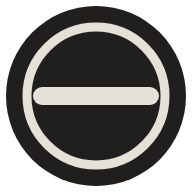
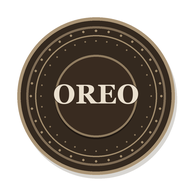
Refresh hosted Oreo with a minimal black UI

diff --git a/public/index.html b/public/index.html
@@ -3,12 +3,13 @@
   <head>
     <meta charset="utf-8">
     <meta name="viewport" content="width=device-width, initial-scale=1, viewport-fit=cover">
-    <meta name="theme-color" content="#171717">
+    <meta name="theme-color" content="#000000">
     <meta name="apple-mobile-web-app-capable" content="yes">
     <meta name="apple-mobile-web-app-title" content="Oreo">
     <meta name="apple-mobile-web-app-status-bar-style" content="black">
     <title>Oreo</title>
     <link rel="manifest" href="/manifest.webmanifest">
+    <link rel="icon" href="/oreo.svg" type="image/svg+xml">
     <link rel="apple-touch-icon" href="/apple-touch-icon.png">
     <style>
       :root{color-scheme:dark;--bg:#171717;--side:#111;--panel:#222;--line:#303030;--ink:#eee;--muted:#999;--accent:#e5e1d8;font:15px/1.55 -apple-system,BlinkMacSystemFont,"Segoe UI",sans-serif;background:var(--bg);color:var(--ink)}
@@ -22,11 +23,12 @@
       #settings{width:min(520px,calc(100% - 28px));max-height:85dvh;overflow:auto;background:#1d1d1d;color:var(--ink);border:1px solid #444;border-radius:16px;padding:24px}#settings::backdrop{background:#0009}.settings-head{display:flex;justify-content:space-between;align-items:center;margin-bottom:18px}.settings-head h2{margin:0;font-size:22px;font-weight:550}#settings label:not(.check){display:block;margin:18px 0 7px;font-size:13px}#settings textarea,#settings select{width:100%;border:1px solid #444;background:#252525;color:var(--ink);border-radius:8px;padding:10px;font:inherit}#settings textarea{resize:vertical;min-height:100px}#settings small{display:block;color:var(--muted);font-size:12px;line-height:1.5;margin-top:6px}.settings-grid{display:grid;grid-template-columns:1fr 1fr;gap:14px}#settings input[type=range]{width:100%;accent-color:var(--accent)}#settings .check{display:flex;align-items:center;gap:9px;margin-top:16px;font-size:13px}#settings input[type=checkbox]{accent-color:var(--accent);width:16px;height:16px}#settings output{float:right;color:var(--muted)}.settings-actions{display:flex;gap:6px;align-items:center;justify-content:flex-end;margin-top:24px}#settings-note{font-size:11px;color:var(--muted);margin:16px 0 0}#open-settings{color:#ddd;border:1px solid var(--line);font-size:12px;padding:6px 10px}
       .ios-install{position:fixed;left:16px;right:16px;bottom:calc(16px + env(safe-area-inset-bottom));z-index:10;max-width:420px;margin:0 auto;display:flex;gap:12px;align-items:center;background:#222;border:1px solid #414141;border-radius:14px;padding:14px 16px}.ios-install p{margin:0;flex:1;font-size:14px}
     </style>
+    <link rel="stylesheet" href="/theme.css">
   </head>
   <body class="signed-out"><button class="mobile-backdrop" aria-label="Close chats"></button>
-    <aside><div class="brand">oreo</div><button id="new-chat" class="new">＋ New chat</button><div class="side-label">Your chats</div><nav id="history" class="history"></nav><div class="side-foot"><span id="who"></span><button id="install" class="quiet hidden" title="Install Oreo as an app">Install</button><button id="refresh" class="quiet" title="Refresh chats">↻</button><button id="sign-out" class="quiet" title="Sign out">Sign out</button></div></aside>
+    <aside><div class="brand"><img class="app-mark" src="/oreo.svg" alt=""><span>Oreo</span></div><button id="new-chat" class="new"><svg viewBox="0 0 20 20" aria-hidden="true"><path d="M10 4v12M4 10h12"/></svg><span>New chat</span></button><div class="side-label">Your chats</div><nav id="history" class="history"></nav><div class="side-foot"><span id="who"></span><button id="install" class="quiet hidden" title="Install Oreo as an app">Install</button><button id="refresh" class="quiet" title="Refresh chats" aria-label="Refresh chats"><svg viewBox="0 0 20 20" aria-hidden="true"><path d="M16 9a6 6 0 1 0 1 4M16 4v5h-5"/></svg></button><button id="sign-out" class="quiet" title="Sign out">Sign out</button></div></aside>
     <div id="ios-install" class="ios-install hidden" role="dialog" aria-label="Install Oreo"><p>To install Oreo, tap <strong>Share</strong> (in Safari it may be under the three-dot menu), then <strong>Add to Home Screen</strong>.</p><button id="ios-install-close" class="quiet">Close</button></div>
-    <main><header class="topbar"><button id="mobile-menu" class="quiet mobile-menu" aria-label="Open chats">☰</button><strong class="mobile-head">oreo</strong><strong id="chat-title">New chat</strong><div class="top-actions"><select id="model" aria-label="Model" title="Model for this chat"></select><button id="open-settings" class="quiet" type="button">Settings</button></div></header><section id="auth" class="signin"><h1 class="wordmark">oreo</h1><p>A small personal AI.<br>Ask, explore, and work with your files.</p><button id="google" class="primary">Continue with Google</button><div id="auth-status" role="status">Loading…</div><small>Your conversations stay in your account.</small></section><section id="chat" class="stage hidden"><div id="answer" class="timeline" aria-live="polite"><div class="welcome"><h1>What are we working on?</h1><p>Ask a question, share an idea, or start with a file.</p></div></div></section><div class="compose-wrap hidden"><div id="status" class="status" role="status"></div><form id="composer" class="compose"><div class="box"><div id="tray"></div><textarea id="message" aria-label="Message" placeholder="Message Oreo" rows="1"></textarea><div class="box-bottom"><div class="box-tools"><button id="attach" type="button" class="tool" title="Attach a PDF, document, image, or text file">＋ Attach</button><button id="web" type="button" class="tool" title="Search the web while answering">◎ Web</button><input id="pick" type="file" multiple hidden accept="image/*,.pdf,.docx,.txt,.md,.csv,.json,.py,.js,.ts,.html,.css,.xml,.yaml,.yml,.log,.c,.cpp,.h,.java,.go,.rs,.sh,.sql"></div><button id="send" type="button" class="send" aria-label="Send">↑</button></div></div><div id="send-hint" class="hint">Enter to send · Shift + Enter for a new line</div></form></div></main>
+    <main><header class="topbar"><button id="mobile-menu" class="quiet mobile-menu" aria-label="Open chats"><svg viewBox="0 0 20 20" aria-hidden="true"><path d="M3 5h14M3 10h14M3 15h14"/></svg></button><strong class="mobile-head"><img class="app-mark" src="/oreo.svg" alt=""><span>Oreo</span></strong><strong id="chat-title">New chat</strong><div class="top-actions"><select id="model" aria-label="Model" title="Model for this chat"></select><button id="open-settings" class="quiet" type="button"><svg viewBox="0 0 20 20" aria-hidden="true"><path d="M10 8.25a1.75 1.75 0 1 0 0 3.5 1.75 1.75 0 0 0 0-3.5ZM4 10a6 6 0 1 0 12 0 6 6 0 0 0-12 0Z"/><path d="M10 2.5v2M10 15.5v2M2.5 10h2m11 0h2M4.7 4.7l1.4 1.4m7.8 7.8 1.4 1.4m0-10.6-1.4 1.4m-7.8 7.8-1.4 1.4"/></svg><span>Settings</span></button></div></header><section id="auth" class="signin"><h1 class="wordmark"><img class="auth-mark" src="/oreo.svg" alt=""><span>Oreo</span></h1><p>A simple place to think, write, and explore.</p><button id="google" class="primary">Continue with Google</button><div id="auth-status" role="status">Loading…</div><small>Your conversations stay in your account.</small></section><section id="chat" class="stage hidden"><div id="answer" class="timeline" aria-live="polite"><div class="welcome"><h1>What can I help you with?</h1><p>Ask a question or start with a file.</p></div></div></section><div class="compose-wrap hidden"><div id="status" class="status" role="status"></div><form id="composer" class="compose"><div class="box"><div id="tray"></div><textarea id="message" aria-label="Message" placeholder="Message Oreo" rows="1"></textarea><div class="box-bottom"><div class="box-tools"><button id="attach" type="button" class="tool" title="Attach a PDF, document, image, or text file"><svg viewBox="0 0 20 20" aria-hidden="true"><path d="m11.5 5.5-5.7 5.7a2.12 2.12 0 0 0 3 3l6.4-6.4a3.54 3.54 0 0 0-5-5l-6.4 6.4a4.95 4.95 0 0 0 7 7l5.7-5.7"/></svg><span>Attach</span></button><button id="web" type="button" class="tool" title="Search the web while answering"><svg viewBox="0 0 20 20" aria-hidden="true"><circle cx="10" cy="10" r="7.2"/><path d="M2.8 10h14.4M10 2.8a11.3 11.3 0 0 1 0 14.4 11.3 11.3 0 0 1 0-14.4Z"/></svg><span>Web search</span></button><input id="pick" type="file" multiple hidden accept="image/*,.pdf,.docx,.txt,.md,.csv,.json,.py,.js,.ts,.html,.css,.xml,.yaml,.yml,.log,.c,.cpp,.h,.java,.go,.rs,.sh,.sql"></div><button id="send" type="button" class="send" aria-label="Send"><svg viewBox="0 0 20 20" aria-hidden="true"><path d="M10 15V5m-4 4 4-4 4 4"/></svg></button></div></div><div id="send-hint" class="hint">Enter to send · Shift + Enter for a new line</div></form></div></main>
     <dialog id="settings" aria-labelledby="settings-title">
       <form id="settings-form">
         <div class="settings-head"><h2 id="settings-title">Settings</h2><button id="close-settings" type="button" class="quiet" aria-label="Close settings">×</button></div>

diff --git a/public/theme.css b/public/theme.css
@@ -1,0 +1,130 @@
+:root {
+  color-scheme: dark;
+  --bg: #000;
+  --side: #0c0c0e;
+  --panel: #161618;
+  --line: #28282b;
+  --ink: #f5f5f7;
+  --muted: #98989e;
+  --accent: #0a84ff;
+  font-family: -apple-system, BlinkMacSystemFont, "Segoe UI", sans-serif;
+}
+
+body { background: #000; color: var(--ink); }
+aside { background: var(--side); border-color: #222225; padding: 20px 14px 14px; }
+.brand { gap: 9px; padding: 1px 9px 25px; color: #f5f5f7; font-size: 16px; font-weight: 600; letter-spacing: -.035em; }
+.app-mark { width: 29px; height: 29px; flex: none; display: block; }
+#new-chat {
+  display: flex; align-items: center; gap: 9px; min-height: 40px; padding: 0 10px;
+  border: 1px solid transparent; border-radius: 9px; background: transparent;
+  color: #e7e7e9; font-size: 13px; font-weight: 500; text-align: left;
+}
+#new-chat:hover { border-color: #303034; background: #1b1b1e; }
+.new svg, .side-foot svg, .mobile-menu svg, .top-actions svg, .box-tools svg, .send svg {
+  width: 17px; height: 17px; fill: none; stroke: currentColor; stroke-width: 1.6;
+  stroke-linecap: round; stroke-linejoin: round; flex: none;
+}
+.side-label { padding: 25px 10px 8px; color: #77777e; font-size: 10px; font-weight: 600; letter-spacing: .07em; }
+.history { scrollbar-width: thin; scrollbar-color: #444448 transparent; }
+.history-row { margin: 1px 0; padding: 1px; border-radius: 7px; }
+.history-row:hover, .history-row.active { background: #202023; }
+.history .chat-open { padding: 8px 9px; color: #b8b8bd; font-size: 12px; }
+.history-row.active .chat-open { color: #f5f5f7; font-weight: 550; }
+.history .chat-delete { border-radius: 6px; color: #8d8d93; }
+.side-foot { min-height: 46px; padding: 10px 3px 0; border-color: #262629; }
+.side-foot span { color: #99999f; font-size: 11px; }
+.quiet { color: #a4a4aa; border-radius: 8px; }
+.quiet:hover { background: #222225; color: #f5f5f7; }
+main { background: #000; }
+.topbar { height: 58px; padding: 0 24px; border-color: #222225; background: #000; }
+.topbar strong { color: #e7e7e9; font-size: 13px; }
+#chat-title { font-weight: 550; }
+.top-actions { gap: 6px; }
+#model {
+  max-width: 180px; padding: 7px 24px 7px 9px; border: 1px solid transparent;
+  border-radius: 8px; background-color: transparent; color: #b8b8bd; font-size: 12px;
+}
+#model:hover, #model:focus { border-color: #333337; background: #111113; }
+#model option { background: #1c1c1e; color: #f5f5f7; }
+#open-settings { display: inline-flex; align-items: center; gap: 6px; padding: 7px 8px; color: #b8b8bd; font-size: 12px; }
+.stage { scroll-padding: 24px 0; }
+.timeline { width: min(760px, calc(100% - 48px)); padding: 38px 0 46px; }
+.welcome { min-height: min(58vh, 520px); align-items: center; justify-content: center; padding: 24px 12px 34px; text-align: center; }
+.welcome h1 { margin: 0 0 9px; color: #f5f5f7; font-size: clamp(30px, 4vw, 36px); font-weight: 600; letter-spacing: -.045em; }
+.welcome p { color: #929298; font-size: 14px; }
+.turn { margin-bottom: 25px; }
+.user { padding: 11px 15px; border-radius: 17px 17px 5px 17px; background: #1c1c1e; color: #ededf0; }
+.assistant { color: #e4e4e7; line-height: 1.72; }
+.assistant a { color: #2997ff; }
+.assistant pre { border-color: #303034; background: #111113; color: #eeeeef; }
+.assistant :not(pre) > code { background: #242427; color: #d8d8dc; }
+.copy { border-color: #36363a; background: #1c1c1e; color: #c5c5ca; }
+.sources a { border-color: #343438; background: #111113; color: #c4c4c9; }
+.status { color: #929298; font-size: 11px; }
+.compose-wrap { padding: 0 20px 14px; background: #000; }
+.compose { width: min(760px, 100%); }
+.box { padding: 10px 12px 8px; border: 1px solid #39393d; border-radius: 16px; background: #161618; box-shadow: none; }
+.box:focus-within { border-color: #68686d; box-shadow: 0 0 0 1px rgb(255 255 255 / 3%); }
+.box textarea { min-height: 46px; max-height: 180px; color: #f2f2f4; }
+.box textarea::placeholder { color: #88888e; }
+.box-bottom { padding-top: 5px; }
+.box-tools { gap: 3px; }
+.tool { display: inline-flex; align-items: center; gap: 6px; padding: 6px 8px; border-radius: 8px; color: #a2a2a8; font-size: 11px; }
+.tool:hover, .tool.on { background: #252528; color: #f0f0f2; }
+.tool.on { border-color: #343438; }
+.send { width: 34px; height: 34px; display: grid; place-items: center; background: #f5f5f7; color: #161618; }
+.send:not(:disabled):hover { background: #fff; }
+.send:disabled { background: #343438; color: #77777d; opacity: 1; }
+.hint { color: #77777d; font-size: 10px; }
+.file { border-color: #303034; background: #1a1a1c; color: #c6c6ca; }
+.signin { border: 0; background: transparent; box-shadow: none; }
+.signin .wordmark { gap: 10px; color: #f5f5f7; font-size: 32px; }
+.auth-mark { width: 42px; height: 42px; }
+.signin p { color: #a1a1a7; }
+.signin .primary { background: #f5f5f7; color: #1c1c1e; }
+.signin .primary:hover { background: #fff; }
+.signin small { color: #7f7f85; }
+#auth-status { color: #a1a1a7; }
+button:focus-visible, select:focus-visible, a:focus-visible, textarea:focus-visible {
+  outline: 2px solid rgb(10 132 255 / 70%); outline-offset: 2px;
+}
+#settings { border-color: #38383c; background: #1c1c1e; color: #f1f1f3; box-shadow: 0 16px 48px rgb(0 0 0 / 55%); }
+#settings::backdrop { background: rgb(0 0 0 / 62%); }
+#settings textarea, #settings select { border-color: #414145; background: #141416; color: #f1f1f3; }
+#settings small, #settings-note { color: #a0a0a6; }
+#settings label:not(.check) { color: #d5d5d9; }
+.settings-head h2 { color: #f5f5f7; }
+.ios-install { border-color: #36363a; background: #1c1c1e; color: #ededf0; box-shadow: 0 8px 28px rgb(0 0 0 / 45%); }
+
+@media (max-width: 760px) {
+  aside { padding-top: calc(17px + env(safe-area-inset-top)); }
+  main { height: calc(100dvh - env(safe-area-inset-top) - env(safe-area-inset-bottom)); }
+  .topbar { height: 52px; padding: 0 10px; }
+  .mobile-head { display: flex; align-items: center; gap: 7px; color: #f2f2f4 !important; font-size: 14px !important; }
+  .mobile-head .app-mark { width: 25px; height: 25px; }
+  .mobile-menu { display: inline-flex; align-items: center; justify-content: center; width: 34px; height: 34px; }
+  .topbar #chat-title { display: none; }
+  .top-actions { gap: 1px; }
+  #model { max-width: 140px; padding: 6px 20px 6px 7px; font-size: 10px; }
+  #open-settings { gap: 3px; padding: 6px; font-size: 0; }
+  #open-settings svg { width: 18px; height: 18px; }
+  .timeline { width: calc(100% - 28px); padding-top: 24px; }
+  .welcome { min-height: 52vh; padding: 22px 8px 28px; }
+  .welcome h1 { font-size: clamp(28px, 7vw, 34px); }
+  .welcome p { max-width: 270px; font-size: 13px; }
+  .compose-wrap { padding: 0 10px calc(7px + env(safe-area-inset-bottom)); }
+  .box { padding: 8px 9px 7px; }
+  .box textarea { min-height: 42px; }
+  .tool { padding: 6px; }
+  #settings { padding: 18px; max-height: 90dvh; }
+  .signin { padding: 26px 20px; }
+}
+
+@media (max-width: 380px) {
+  .mobile-head span { display: none; }
+  #model { max-width: 120px; }
+}
+
+@media (prefers-reduced-motion: reduce) {
+  *, *::before, *::after { scroll-behavior: auto !important; transition-duration: .01ms !important; }
+}

diff --git a/public/sw.js b/public/sw.js
@@ -1,8 +1,8 @@
 // Keeps the app shell available so the installed app opens on a weak connection.
 // Only public, signed-out files are cached. /api/ and every non-GET request go
 // straight to the network, so chats and tokens never land in the cache.
-const CACHE = 'oreo-shell-v2';
-const SHELL = ['/', '/chat.js', '/markdown.js', '/preferences.js', '/oreo.svg', '/manifest.webmanifest', '/icon-192.png'];
+const CACHE = 'oreo-shell-v3';
+const SHELL = ['/', '/chat.js', '/markdown.js', '/preferences.js', '/theme.css', '/oreo.svg', '/manifest.webmanifest', '/icon-192.png'];
 
 self.addEventListener('install', event => {
   event.waitUntil(caches.open(CACHE).then(cache => cache.addAll(SHELL)).then(() => self.skipWaiting()));

diff --git a/public/chat.js b/public/chat.js
@@ -8,7 +8,7 @@ let defaultModel = '';
 let supabase, user = null, epoch = 0, chatId = null, rows = [], conversations = [];
 const previewUrls = new Set();
 let pending = [], busy = false, loading = false, reading = false, ready = false, web = false;
-const welcome = '<div class="welcome"><h1>What are we working on?</h1><p>Ask a question, share an idea, or start with a file.</p></div>';
+const welcome = '<div class="welcome"><h1>What can I help you with?</h1><p>Ask a question or start with a file.</p></div>';
 const notify = text => { $('#status').textContent = text; $('#auth-status').textContent = text; };
 const controls = () => {
   const blocked = busy || loading || reading || !ready;

diff --git a/api/index.py b/api/index.py
@@ -26,9 +26,11 @@ class handler(ChatHandler, HostedHandler):
             self.send_header("Content-Length", str(len(body)))
             self.end_headers()
             self.wfile.write(body)
-        elif path in ("/chat.js", "/markdown.js", "/preferences.js", "/sw.js", "/manifest.webmanifest"):
+        elif path in ("/chat.js", "/markdown.js", "/preferences.js", "/sw.js", "/manifest.webmanifest", "/theme.css"):
             body = (Path(__file__).resolve().parent.parent / "public" / path[1:]).read_bytes()
-            kind = "application/manifest+json" if path.endswith(".webmanifest") else "text/javascript; charset=utf-8"
+            kind = ("application/manifest+json" if path.endswith(".webmanifest") else
+                    "text/css; charset=utf-8" if path.endswith(".css") else
+                    "text/javascript; charset=utf-8")
             self.send_response(200)
             self.send_header("Content-Type", kind)
             self.send_header("Cache-Control", "no-cache")

diff --git a/tests/test_hosted_accounts.py b/tests/test_hosted_accounts.py
@@ -85,6 +85,7 @@ class InstallableAppTests(unittest.TestCase):
 
     def test_app_files_are_served_with_their_types(self):
         for path, kind in (('/manifest.webmanifest', 'application/manifest+json'), ('/sw.js', 'text/javascript; charset=utf-8'),
+                           ('/theme.css', 'text/css; charset=utf-8'),
                            ('/icon-192.png', 'image/png'), ('/icon-512.png', 'image/png'),
                            ('/icon-maskable-512.png', 'image/png'), ('/apple-touch-icon.png', 'image/png')):
             with self.subTest(path=path):

diff --git a/docs/agent/STATE.md b/docs/agent/STATE.md
@@ -159,4 +159,21 @@ Sonnet remains selectable. Full check: 62 Python tests, 3 JavaScript behavior
 tests, JS syntax, Python compile and diff whitespace all pass. The local mock
 browser flow streams a long answer and answers a context-dependent follow-up.
 No real provider latency benchmark has been run, so no measured speed claim.
-Current additional changes are being prepared for a follow-up deployment.
+
+## 2026-10-08 — Minimal black hosted UI
+Updated the hosted app to a pure-black canvas with restrained charcoal surfaces,
+system typography, simplified line icons, and a single biscuit mark used across
+the sidebar, mobile header, sign-in, favicon and installable-app icons. Removed
+the welcome-screen eyebrow and starter cards. Aligned the chat-inserted welcome
+copy with the static page, updated the browser theme color and PWA colors, and
+added `public/theme.css` to the static route, offline shell and asset MIME test.
+
+The local fake-auth preview at 127.0.0.1:4801 showed the mobile screen with the
+black theme, composer and small biscuit mark; browser inspection confirmed the
+stylesheet loaded and the canvas computes to rgb(0, 0, 0). Validation: 62 Python
+unittest cases pass, 3 Node UI behavior tests pass, JavaScript syntax checks,
+Python compileall and `git diff --check` pass. No real account or provider was
+used. Production deployment and smoke checks follow the commit push.
+
+Preserve unrelated modified `AGENTS.md` and untracked
+`.github/copilot-instructions.md`, `.venv` symlink and `GEMINI.md`.

diff --git a/docs/agent/DECISIONS.md b/docs/agent/DECISIONS.md
@@ -95,3 +95,11 @@ Sonnet and the other models in the picker so users can choose more capability
 for harder requests. Reuse the provider client across warm function calls to
 reuse its outbound connection pool; cache by API key so credential rotation does
 not keep using a stale client.
+
+## 2026-10-08 — Minimal black Oreo interface
+The user rejected the decorative blue/light concept and asked for a clean,
+professional Apple-like dark interface. Use pure black as the page canvas,
+quiet charcoal surfaces, restrained system typography, and one small Oreo biscuit
+mark for identity. Keep the chat welcome screen direct and free of promotional
+starter cards. This supersedes the earlier decision to keep the original
+circular mark and avoid a cookie illustration.
